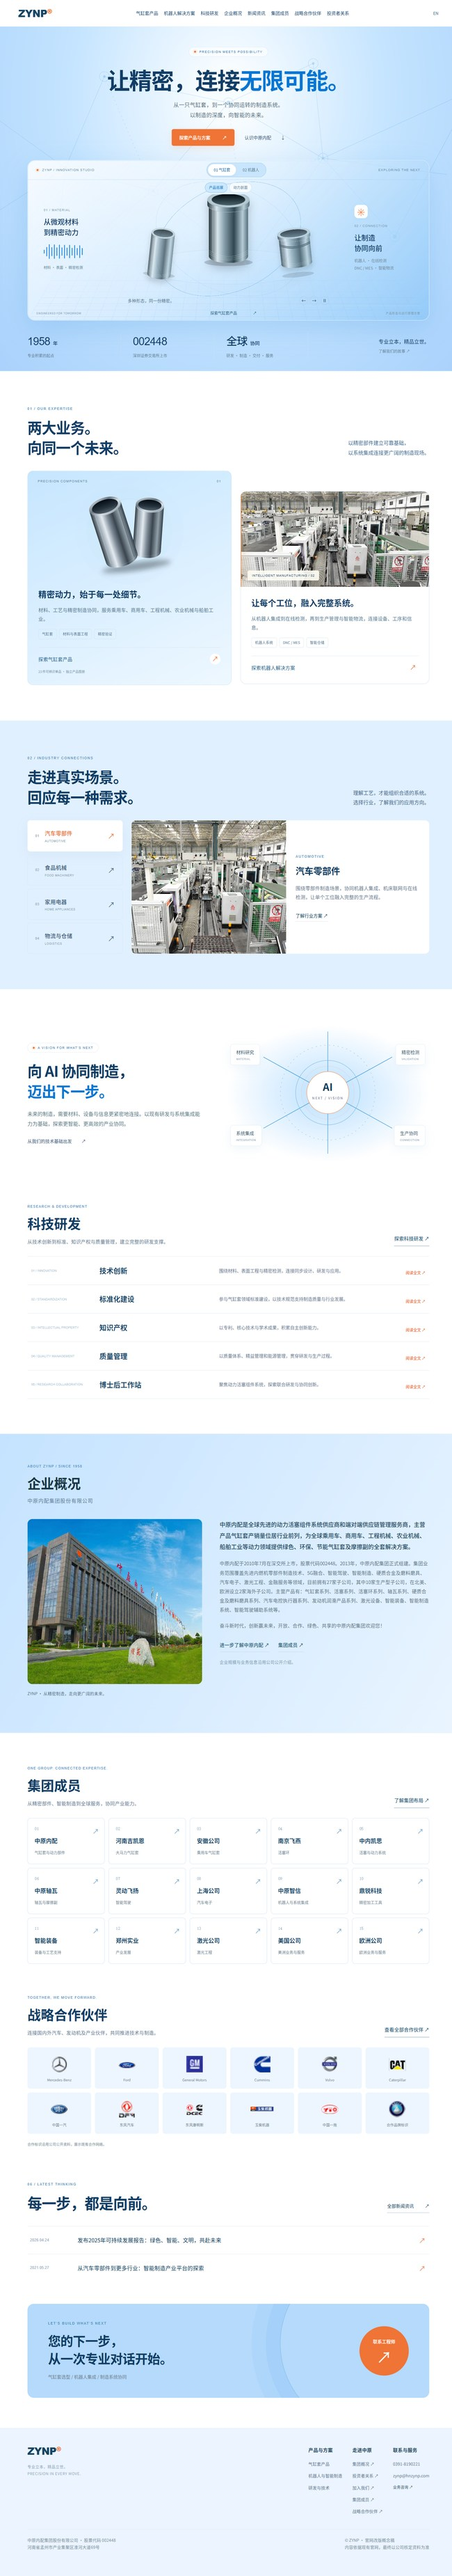
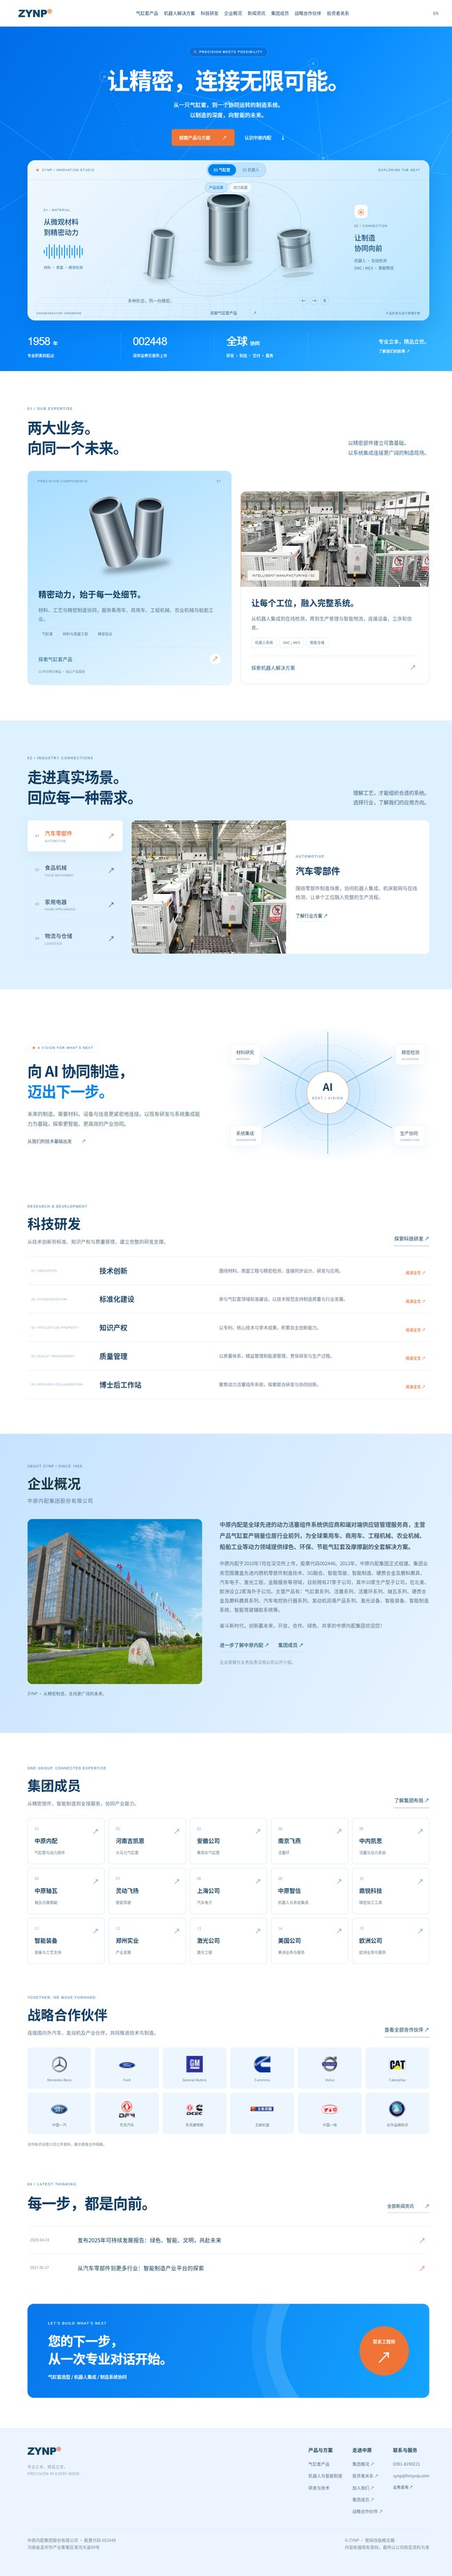
style: use vivid bright blue for D

Changed region(s): [[0.0, 0.0, 1.0, 0.2176], [0.0615, 0.8703, 0.9538, 0.9324], [0.3385, 0.1865, 0.4615, 0.2176]]

diff --git a/design-proposals/d.css b/design-proposals/d.css
@@ -1,4 +1,4 @@
-/* D / Open blue space, orange actions, connected manufacturing. */
+/* D / Bright azure, white space, orange actions. */
 .theme-d{--accent:#ef7436;--d-blue:#096bc4;--d-ink:#123d66;--d-muted:#466d92;--d-line:#a6cff1;background:#fff;color:var(--d-ink)}
 .theme-d .site-header{height:84px;background:#ffffffed;border-bottom:1px solid #dfeaf2;backdrop-filter:blur(20px);padding:0 4%;gap:26px;z-index:65}
 .theme-d .brand-word{color:#164565}.theme-d .brand-cn{letter-spacing:.05em;font-size:14px}.theme-d .site-header nav{gap:21px;font-size:14px}.theme-d .site-header nav a{white-space:nowrap}.theme-d .site-header nav a:hover{color:#e76727}.theme-d .header-actions{color:#41687e}.theme-d .menu-toggle{color:#244d68}
@@ -20,4 +20,17 @@
 @media(max-width:1320px){.theme-d .site-header nav{background:#f6fbff;color:#2c5270;border-bottom:1px solid #c4dce9;box-shadow:0 16px 35px #769cb02b}.theme-d .site-header nav a{padding:10px}.theme-d .site-header{height:76px}.theme-d .site-header .brand-cn{display:block}.d-signal{width:145px}.d-signal strong{font-size:20px}.d-studio-index{display:none}.d-industry-workspace{grid-template-columns:240px 1fr;gap:20px}.d-industry-panel{grid-template-columns:1fr 1fr}.d-industry-copy{padding:30px 24px}.d-future{gap:30px}.theme-d .research-card{grid-template-columns:145px 1fr 1.5fr auto;gap:15px}.theme-d .member-grid{grid-template-columns:repeat(3,minmax(0,1fr))}.theme-d .company-layout{gap:30px}.d-model{width:57%}}
 @media(max-width:1000px){.d-section{padding:75px 0}.d-hero{padding-top:45px}.d-hero h1{font-size:50px}.d-signal{width:115px}.d-signal strong{font-size:17px}.d-signal p,.d-signal small{font-size:10px}.d-wave{gap:3px}.d-model{width:61%}.d-signal-left{left:2.5%}.d-signal-right{right:2.5%}.d-proof{grid-template-columns:1fr 1fr 1fr}.d-proof>a{grid-column:1/-1;justify-self:start;margin-top:25px;display:flex;gap:30px;align-items:center}.d-proof>a span{margin:0}.d-proof strong{font-size:28px}.d-business-grid{gap:20px}.d-business-copy{padding:26px}.d-business-copy h3{font-size:23px}.d-component-image,.d-factory-image{height:250px}.d-industry-workspace{grid-template-columns:1fr}.d-industry-tabs{flex-direction:row}.d-industry-tabs button{padding:16px 12px;gap:8px}.d-industry-tabs strong{font-size:14px}.d-industry-tabs small{font-size:7px}.d-industry-tabs b{display:none}.d-industry-panel>img{min-height:320px}.d-future{grid-template-columns:1fr}.d-future-copy{max-width:600px}.d-intelligence{max-width:650px;width:100%;margin:auto}.theme-d .research-card{grid-template-columns:100px 1fr auto;gap:15px}.theme-d .research-card p{grid-column:2/3;grid-row:2}.theme-d .research-index{font-size:9px!important;overflow-wrap:anywhere}.theme-d .research-arrow{grid-column:3;grid-row:1/3}.theme-d .company-layout{grid-template-columns:1fr}.theme-d .company-image img{height:390px}.d-connect{padding:40px}.d-connect h2{font-size:34px}.d-connect-action{width:130px;height:130px}.theme-d .foot-top{flex-direction:column}.theme-d .foot-links{justify-content:space-between;width:100%}}
 @media(max-width:600px){.d-container{width:90%}.theme-d .site-header{height:70px;padding:0 5%}.d-hero{padding-top:34px}.d-hero h1{font-size:36px;max-width:330px;margin:20px auto 16px;line-height:1.4}.d-hero h1>span{display:block}.d-hero-heading>p{font-size:14px;padding:0 18px;line-height:1.9}.d-pill{font-size:8px;padding:8px 12px;letter-spacing:.1em}.d-hero-links{gap:20px;margin-top:24px}.d-button{font-size:12px;padding:13px 15px;gap:18px}.d-text-link{font-size:12px;gap:13px}.d-studio{margin-top:30px;height:450px;border-radius:16px}.d-studio-top{height:86px;flex-direction:column;gap:10px;padding:13px 8px}.d-studio-top>span:first-child{font-size:8px}.d-business-switch button{font-size:11px;padding:6px 17px}.d-signal{display:none}.d-model,.theme-d .d-model[data-robot=true]{top:86px;width:100%;height:320px}.d-studio-bottom{height:40px;left:15px;right:15px;justify-content:center}.d-studio-bottom>span{display:none}.d-studio-bottom>a{font-size:11px;gap:70px}.d-model .liner-stage-bottom .liner-scene-title{font-size:11px!important}.d-model .liner-stage-bottom{padding:0 10px 8px}.d-model .liner-stage-actions{gap:3px}.d-model .liner-stage-actions button{width:25px;height:25px;font-size:13px}.d-model .liner-view-switch{margin-top:10px}.d-model .liner-view-switch button{font-size:10px}.d-model .liner-engine-caption{font-size:10px}.d-orbit-ring{width:85%;height:250px;top:115px}.d-proof{padding:28px 0}.d-proof>div{padding:0 10px}.d-proof>div:nth-child(3){border:0}.d-proof strong{font-size:23px}.d-proof strong span{font-size:10px;margin-left:4px}.d-proof p{font-size:9px}.d-proof>a{font-size:12px;gap:20px;margin-top:24px}.d-proof>a span{font-size:10px}.d-section{padding-top:60px;padding-bottom:60px}.d-section-heading{display:block;margin-bottom:28px}.d-section-heading h2,.d-future h2{font-size:32px}.d-section-heading>p{font-size:14px;margin-top:20px}.d-section-heading>a{display:inline-flex;margin-top:20px;font-size:13px}.d-kicker{font-size:9px;margin-bottom:14px}.d-business-grid{grid-template-columns:1fr;gap:22px}.d-robotics{margin-top:0}.d-business-copy{padding:24px}.d-business-copy h3{font-size:23px}.d-business-copy p{font-size:14px}.d-component-image{height:240px}.d-factory-image{height:240px}.d-tags span{font-size:10px}.d-industry-tabs{display:grid;grid-template-columns:1fr 1fr;gap:8px}.d-industry-tabs button{padding:14px 10px;gap:9px}.d-industry-tabs strong{font-size:13px}.d-industry-tabs small{font-size:7px}.d-industry-panel{display:flex;flex-direction:column}.d-industry-panel>img{height:220px;min-height:0}.d-industry-copy{padding:26px}.d-industry-copy h3{font-size:25px}.d-industry-copy p{font-size:14px;margin:15px 0 22px}.d-future p{font-size:14px}.d-intelligence-node{font-size:11px;padding:9px 11px}.d-intelligence-node small{font-size:6px}.d-intelligence{margin-top:15px}.theme-d .research-home{padding:0 0 60px;width:90%}.theme-d .network-heading h2,.theme-d .company-heading h2{font-size:32px!important}.theme-d .research-card{grid-template-columns:1fr auto;padding:24px 4px;gap:10px}.theme-d .research-card .research-index{grid-column:1/-1;font-size:9px!important}.theme-d .research-card h3{grid-column:1;grid-row:2;font-size:21px!important}.theme-d .research-card p{grid-column:1/-1;grid-row:3;font-size:13px!important}.theme-d .research-arrow{grid-column:2;grid-row:2;font-size:11px!important}.theme-d .company-home{padding:55px 0}.theme-d .company-inner{width:90%}.theme-d .company-image img{height:290px;border-radius:10px}.theme-d .company-heading{margin-bottom:28px}.theme-d .company-copy>p{font-size:14px!important}.theme-d .company-copy>p:first-child{font-size:16px!important}.theme-d .company-links{gap:20px}.theme-d .company-links a{font-size:13px!important}.theme-d .network-section:not(.research-home){width:90%;padding-top:50px}.theme-d .member-grid{grid-template-columns:repeat(2,minmax(0,1fr));gap:8px}.theme-d .member-tile{padding:18px 14px;min-height:130px}.theme-d .member-tile strong{font-size:16px}.theme-d .member-tile>span:last-of-type{font-size:11px!important}.theme-d .member-tile b{right:12px;top:16px}.theme-d .partner-grid{grid-template-columns:repeat(3,minmax(0,1fr))}.theme-d .partner-tile{min-height:110px;padding:15px 8px}.theme-d .partner-tile figcaption{font-size:9px!important}.theme-d .news-list a{grid-template-columns:1fr 20px;gap:10px;font-size:15px!important;padding:22px 0}.theme-d .news-list time{grid-column:1/-1;font-size:11px}.d-connect{padding:30px 25px;margin-bottom:55px;align-items:flex-start;gap:25px;flex-direction:column;border-radius:14px}.d-connect h2{font-size:30px}.d-connect p{font-size:12px}.d-connect-action{width:90px;height:90px;align-self:flex-end}.d-connect-action span{font-size:11px}.d-connect-action b{font-size:30px}.theme-d .site-footer{padding:40px 0 90px}.theme-d .foot-links{display:grid;grid-template-columns:1fr 1fr;gap:25px}.theme-d .foot-links>div:last-child{grid-column:1/-1}.theme-d .foot-links strong{font-size:14px}.theme-d .foot-bottom{font-size:11px!important}.theme-d .review-dock{left:8px;bottom:10px}.theme-d .review-dock a{padding:6px 8px}.theme-d .motion-control{right:8px;bottom:10px;font-size:10px!important;padding:8px 10px}}
+/* Bright blue surfaces use white typography and a light product stage. */
+.theme-d{--d-blue:#0088ff}
+.d-hero{background:linear-gradient(125deg,#006de8 0%,#078aff 52%,#38baff 100%);color:#fff}
+.d-hero h1,.d-hero h1>span{color:#fff;text-shadow:0 3px 24px #0042a52b}
+.d-hero-heading>p{color:#fff}.d-hero .d-pill{color:#fff;background:#0059bb66;border-color:#ffffff60}.d-hero .d-text-link{color:#fff}
+.d-neural-map{color:#b5edff;opacity:.4}
+.d-studio{color:#154b78;background:linear-gradient(135deg,#fffffff2,#e8f7fff0 50%,#c0e9fff0);border-color:#ffffffb8;box-shadow:0 25px 70px #00469b35}
+.d-studio .d-micro,.d-studio-top>span,.d-signal small,.d-signal p,.d-studio-bottom>span{color:#3e759c}
+.d-studio .d-business-switch{background:#a8d9ff99;border-color:#7cbbec}.d-business-switch button[aria-pressed=true]{background:#0083ed;color:white}
+.d-proof>div{border-color:#ffffff48}.d-proof p,.d-proof>a span{color:#fff}.d-proof strong,.d-proof>a{color:#fff}
+.d-wave i{background:#008cff}.d-future h2 span{color:#0087ee}
+.d-connect{background:linear-gradient(115deg,#0876ed,#14a4ff);color:white}.d-connect .d-kicker,.d-connect p{color:white}.d-connect-orbit{border-color:#b6e9ff80;box-shadow:0 0 0 45px #b6e9ff22,0 0 0 90px #b6e9ff15}
+.d-precision{background:linear-gradient(155deg,#a5ddff,#eaf7ff)}.d-industry{background:#def1ff}
 @media(prefers-reduced-motion:reduce){.d-data-pulse{display:none}.theme-d *{animation:none!important;transition:none!important}}

diff --git a/design-proposals/content-d.css b/design-proposals/content-d.css
@@ -10,4 +10,9 @@ html[data-theme=d]{--paper:#eff7ff;--surface:#fff;--ink:#174770;--muted:#537b9b;
 [data-theme=d] .member-grid{gap:14px;border:0}[data-theme=d] .member-tile{border:1px solid #dbe8f1;background:white;border-radius:10px}[data-theme=d] .member-tile:hover{background:#d3ebff}[data-theme=d] .partner-tile{border-radius:9px;border-color:#e0eaf2}[data-theme=d] .partner-tile figcaption{color:#7290a5}[data-theme=d] .partner-atlases a{border-radius:12px;border-color:#b9d6ef}
 [data-theme=d] .research-topic{border-color:#cfdfec}[data-theme=d] .research-topic-content{background:#fff;border:1px solid #e1ebf3;border-radius:12px;padding:28px}[data-theme=d] .research-topic-heading h2{color:#156eae}[data-theme=d] .research-index{color:#779ab4}
 [data-theme=d] .content-footer{background:#dceeff;border-color:#d5e5f0}[data-theme=d] .load-more{background:#ef7436;color:white;border-radius:6px}[data-theme=d] .motion-control{background:#fffef4ed;color:#567c96;border-color:#c4dbea}
+[data-theme=d] .content-hero{background:linear-gradient(120deg,#006de8,#098dff 60%,#38baff);color:white}
+[data-theme=d] .content-hero h1,[data-theme=d] .content-hero .eyebrow,[data-theme=d] .content-hero p,[data-theme=d] .breadcrumb{color:white;opacity:1}
+[data-theme=d] .content-hero:after{color:#c8f1ff;opacity:.2}
+[data-theme=d] .filter-tabs button[aria-pressed=true]{background:#007ce6;border-color:#007ce6}
+[data-theme=d] .product-image{background:radial-gradient(ellipse,#f5fcff,#b5e1ff)}
 @media(max-width:700px){[data-theme=d] .content-hero{padding:45px 6% 35px}[data-theme=d] .article-body{padding:22px 18px}[data-theme=d] .content-card{padding:25px}[data-theme=d] .research-topic-content{padding:22px}}
